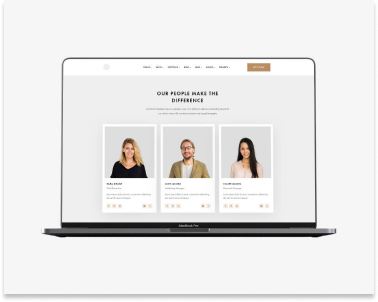
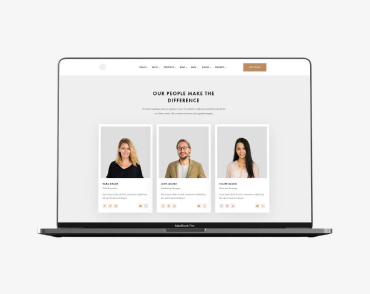
projects cards style

diff --git a/portfolio.html b/portfolio.html
@@ -48,48 +48,66 @@
                 <ul class="list project-list">
                     <li class="projects-item">
                         <img src="./images/example1.jpg" alt="Ноутбук" width="370">
-                        <h2 class="projects-title">Технокряк</h2>
-                        <p class="projects-text">Веб-сайт</p>
+                        <div class="projects-box">
+                            <h2 class="projects-title">Технокряк</h2>
+                            <p class="projects-text">Веб-сайт</p>
+                        </div>
                     </li>
                     <li class="projects-item">
                         <img src="./images/example2.jpg" alt="Постер с двумя баскетболистами" width="370">
-                        <h2 class="projects-title">Постер New Orlean vs Golden Star</h2>
-                        <p class="projects-text">Дизайн</p>
+                        <div class="projects-box">
+                            <h2 class="projects-title">Постер New Orlean vs Golden Star</h2>
+                            <p class="projects-text">Дизайн</p>
+                        </div>
                     </li>
                     <li class="projects-item">
                         <img src="./images/example3.jpg" alt="Логотип ресторана" width="370">
-                        <h2 class="projects-title">Ресторан Seafood</h2>
-                        <p class="projects-text">Приложение</p>
+                        <div class="projects-box">
+                            <h2 class="projects-title">Ресторан Seafood</h2>
+                            <p class="projects-text">Приложение</p>
+                        </div>
                     </li>
                     <li class="projects-item">
                         <img src="./images/example4.jpg" alt="Наушники" width="370">
-                        <h2 class="projects-title">Проект Prime</h2>
-                        <p class="projects-text">Маркетинг</p>
+                        <div class="projects-box">
+                            <h2 class="projects-title">Проект Prime</h2>
+                            <p class="projects-text">Маркетинг</p>
+                        </div>
                     </li>
                     <li class="projects-item">
                         <img src="./images/example5.jpg" alt="Две коробки" width="370">
-                        <h2 class="projects-title">Проект Boxes</h2>
-                        <p class="projects-text">Приложение</p>
+                        <div class="projects-box">
+                            <h2 class="projects-title">Проект Boxes</h2>
+                            <p class="projects-text">Приложение</p>
+                        </div>
                     </li>
                     <li class="projects-item">
                         <img src="./images/example6.jpg" alt="Монитор с изображением" width="370">
-                        <h2 class="projects-title">Inspiration has no Borders</h2>
-                        <p class="projects-text">Веб-сайт</p>
+                        <div class="projects-box">
+                            <h2 class="projects-title">Inspiration has no Borders</h2>
+                            <p class="projects-text">Веб-сайт</p>
+                        </div>
                     </li>
                     <li class="projects-item">
                         <img src="./images/example7.jpg" alt="Журнал" width="370">
-                        <h2 class="projects-title">Издание Limited Edition</h2>
-                        <p class="projects-text">Дизайн</p>
+                        <div class="projects-box">
+                            <h2 class="projects-title">Издание Limited Edition</h2>
+                            <p class="projects-text">Дизайн</p>
+                        </div>
                     </li>
                     <li class="projects-item">
                         <img src="./images/example8.jpg" alt="Бирка с названием проекта" width="370">
-                        <h2 class="projects-title">Проект LAB</h2>
-                        <p class="projects-text">Маркетинг</p>
+                        <div class="projects-box">
+                            <h2 class="projects-title">Проект LAB</h2>
+                            <p class="projects-text">Маркетинг</p>
+                        </div>
                     </li>
                     <li class="projects-item">
                         <img src="./images/example9.jpg" alt="Ноутбук с запущенным приложением" width="370">
-                        <h2 class="projects-title">Growing Business</h2>
-                        <p class="projects-text">Приложение</p>
+                        <div class="projects-box">
+                            <h2 class="projects-title">Growing Business</h2>
+                            <p class="projects-text">Приложение</p>
+                        </div>
                     </li>
                 </ul>
             </div>

diff --git a/css/styles.css b/css/styles.css
@@ -51,6 +51,11 @@ body {
   padding-bottom: 94px;
 }
 
+.padding-bot {
+  padding-bottom: 0;
+}
+
+
 .header {
   border-bottom: 1px solid #ECECEC;
 }
@@ -143,6 +148,9 @@ body {
 
 .hero {
   text-align: center;
+  background-color: var(--hero-background-color);
+  padding-top: 200px;
+  padding-bottom: 200px;
 }
 
 .hero-title {
@@ -157,7 +165,6 @@ body {
   letter-spacing: 0.06em;
   text-transform: uppercase;
   color: var(--main-backrgound-color);
-  background-color: var(--hero-background-color);
 }
 
 .hero-btn {
@@ -259,12 +266,13 @@ body {
 
 .team-text {
   color: var(--secondary-text-color);
-  padding-bottom: 30px;
 }
 
 .team-item {
-  box-shadow: 0px 1px 3px rgba(0, 0, 0, 0.12), 0px 1px 1px rgba(0, 0, 0, 0.14), 0px 2px 1px rgba(0, 0, 0, 0.2);
+  padding-bottom: 30px;
   border-radius: 0px 0px 4px 4px;
+  box-shadow: 0px 1px 3px rgba(0, 0, 0, 0.12), 0px 1px 1px rgba(0, 0, 0, 0.14), 0px 2px 1px rgba(0, 0, 0, 0.2);
+  
 }
 
 .team-item:not(:last-child) {
@@ -345,7 +353,7 @@ body {
 
 .projects-text {
   padding: 0 24px 20px;
-  
+
   color: var(--secondary-text-color);
   font-size: 16px;
   line-height: 1.88;
@@ -371,4 +379,13 @@ body {
 
 .projects-item:not(:nth-last-child(-n+3)) {
   margin-bottom: 30px;
+}
+
+.projects-box {
+  border: 1px solid #eee;
+  border-top: none;
+}
+
+.projects-item>img {
+  display: block;
 }

diff --git a/index.html b/index.html
@@ -46,7 +46,7 @@
         </div>
 
         <!-- Особенности -->
-        <section class="section">
+        <section class="section padding-bot">
             <div class="container">
                 <h2 class="hidden">особенности</h2>
                 <ul class="list features">
